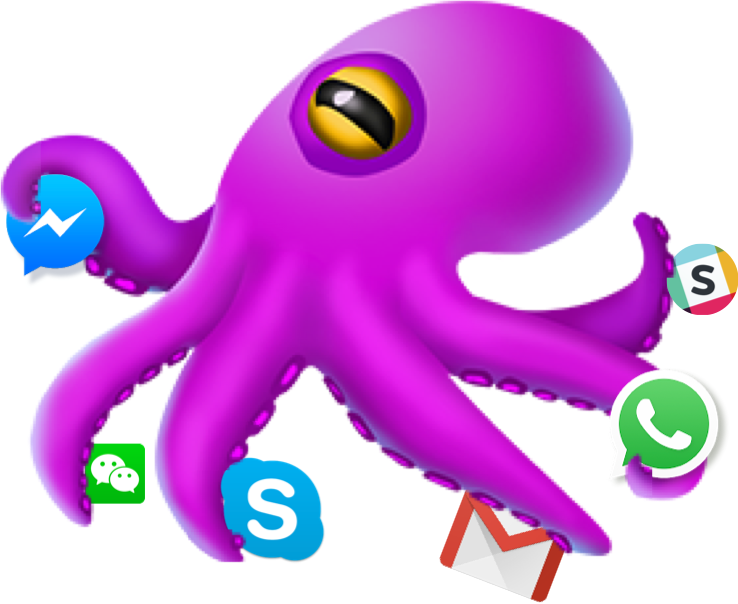
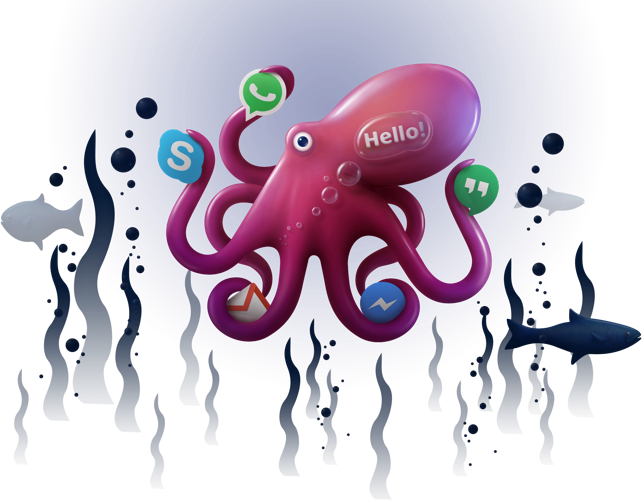
new welcome screen

diff --git a/packages/local/rambox-default-theme/sass/etc/all.scss b/packages/local/rambox-default-theme/sass/etc/all.scss
@@ -563,11 +563,11 @@ body::before {
 
 	// background: none !important;
 
-	background-image: url(welcome/bg.png) !important;
-    background-position: center center;
-    background-repeat: no-repeat;
-    background-size: contain;
-    background-color: #092037 !important;
+	// background-image: url(welcome/bg.png) !important;
+    // background-position: center center;
+    // background-repeat: no-repeat;
+    // background-size: contain;
+    background-color: #180436 !important;
 }
 
 .welcome-panel .x-panel-body-default {
@@ -575,28 +575,36 @@ body::before {
 }
 
 .octo-image-ctr .x-autocontainer-outerCt,
+.octo-button-ctr .x-autocontainer-outerCt,
 .octo-text-ctr .x-autocontainer-outerCt {
 	text-align: center;
 }
 
 .welcome-panel .octo-image {
-	width: 50%;
+	width: 100%;
 }
 
 .welcome-panel .octo-text {
 	width: 60%;
 }
 
-.welcome-panel::after {
-
-	content: url(welcome/arrow.png);
-
-	// width: 10%;
-
-	position: absolute;
-	left: 20px;
-	top: 20px;
+.welcome-panel .octo-button {
+	width: 60%;
 }
+.octo-button:hover {
+	cursor: pointer;
+}
+
+// .welcome-panel::after {
+
+// 	content: url(welcome/arrow.png);
+
+// 	// width: 10%;
+
+// 	position: absolute;
+// 	left: 20px;
+// 	top: 20px;
+// }
 
 // Upgrade popup
 .upgrade-popup .x-window-header-default {

diff --git a/app/view/main/Main.js b/app/view/main/Main.js
@@ -205,7 +205,29 @@ Ext.define('Rambox.view.main.Main', {
 					cls: "octo-text-ctr",
 					html: '<img class="octo-text" src="resources/welcome/text.png" />',
 
-					margin: "50 0 0 0",
+					margin: "-120 0 0 0",
+				},
+
+				{
+					autoRender: true,
+					autoShow: true,
+
+					type: "component",
+					cls: "octo-button-ctr",
+					html: '<img class="octo-button" src="resources/welcome/button.png" />',
+
+					margin: "30 0 0 0",
+
+					listeners: {
+						render: function(c) {
+							c.getEl().on({
+								click: function (e) {
+									let pTab = Ext.cq1('app-main').getComponent('plusTab')
+									Ext.cq1('app-main').setActiveTab(pTab)
+								}
+							})
+						}
+					}
 				},
 
 			// 	{

diff --git a/popup.html b/popup.html
@@ -1,0 +1,12 @@
+<!DOCTYPE html>
+<html>
+    <head>
+        <title>Hello Popup</title>
+    </head>
+
+    <body>
+        <h1>This is a popup. HELLO</h1>
+        <a href="#buy" target="_blank">Buy now!</a>
+        <a href="#manual" target="_blank">Activate Manualy!</a>
+    </body>
+</html>
